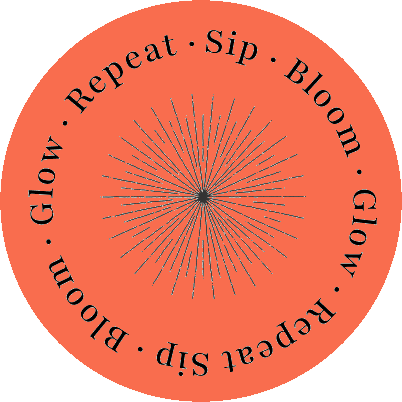
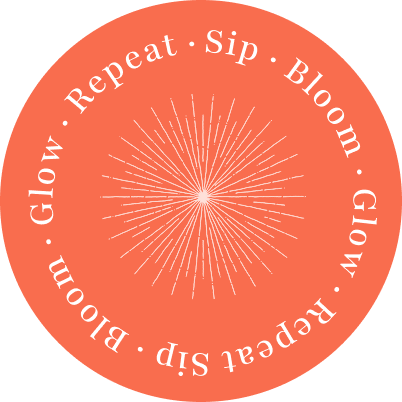
Add Prénom/Nom fields, whiten the macaron's ink, rewrite the prize copy
Three related teaser changes:

- Signup form: added Prénom and Nom fields (side by side above email, both
  required) since a first/last name is needed to know who to invite
  personally. Rewrote the submit handler to validate and hide all three
  inputs instead of just the single one it was hardcoded to before.
- Macaron badge: the sunburst rays and ring text were still black, which
  Laurent flagged as wrong now that the fill is orange — recomposited the
  asset from the original cream+black source (extracting the ink as an
  alpha mask so anti-aliasing stays smooth) so both the rays and the text are
  white against the exact #F96D4E fill. Bumped the cache-busting suffix to
  ?v=3.
- Rewrote the form-body copy to match Laurent's new prize table (VIP
  inauguration invitations, free drinks and treatments, and the "Bloom Up
  Pass" grand prize) instead of the old "20 invitations / 50 boissons" text,
  which no longer matched the real lot structure. Kept it to the two most
  compelling anchors rather than listing all seven tiers, consistent with
  the brand voice ("phrases courtes, déclaratives").

Verified over http://localhost:8878 in a fresh tab: Prénom/Nom/email render
side-by-side-then-stacked correctly, macaron shows white ink on orange, new
copy displays, and a full form submission (all three fields filled) hides
every input and shows the confirmation message. No console errors.

diff --git a/bloom-up-teaser.html b/bloom-up-teaser.html
@@ -177,6 +177,11 @@
     }
 
     /* Input */
+    .form-row {
+      display: flex;
+      gap: 10px;
+    }
+    .form-row .form-input-wrap { flex: 1; min-width: 0; }
     .form-input-wrap { position: relative; margin-bottom: 12px; }
     .form-input {
       width: 100%;
@@ -300,7 +305,7 @@
 
     <!-- Badge circulaire -->
     <div class="brand-badge">
-      <img src="images/Macaron header.png?v=2" alt="" aria-hidden="true" loading="lazy">
+      <img src="images/Macaron header.png?v=3" alt="" aria-hidden="true" loading="lazy">
     </div>
   </div>
 
@@ -309,11 +314,36 @@
     <h1 class="form-title">Inscris-toi pour fêter l'ouverture avec nous&nbsp;!</h1>
     <p class="form-body">
       Avant même d'ouvrir nos portes, on veut fêter ça avec toi.
-      <strong>20 invitations</strong> à la soirée de lancement ou <strong>50 boissons</strong> à gagner.
-      Une seule chose à faire — laisser ton adresse email.
+      <strong>Invitations VIP</strong> pour l'inauguration, boissons et soins à gagner —
+      et même un <strong>Bloom Up Pass</strong> pour les plus chanceux.
+      Une seule chose à faire — laisser tes coordonnées.
     </p>
 
     <form id="teaser-form" novalidate>
+      <div class="form-row">
+        <div class="form-input-wrap">
+          <input
+            class="form-input"
+            type="text"
+            name="prenom"
+            placeholder="Prénom"
+            autocomplete="given-name"
+            required
+            aria-label="Prénom"
+          >
+        </div>
+        <div class="form-input-wrap">
+          <input
+            class="form-input"
+            type="text"
+            name="nom"
+            placeholder="Nom"
+            autocomplete="family-name"
+            required
+            aria-label="Nom"
+          >
+        </div>
+      </div>
       <div class="form-input-wrap">
         <input
           class="form-input"
@@ -349,15 +379,17 @@
 (function () {
   var form = document.getElementById('teaser-form');
   var confirm = form.querySelector('.form-confirm');
-  var input = form.querySelector('.form-input');
+  var inputs = Array.prototype.slice.call(form.querySelectorAll('.form-input'));
+  var wraps = Array.prototype.slice.call(form.querySelectorAll('.form-input-wrap'));
   var btn = form.querySelector('.form-submit');
 
   form.addEventListener('submit', function (e) {
     e.preventDefault();
-    if (!input.value || !input.validity.valid) {
-      input.focus();
-      input.style.borderColor = '#c0392b';
-      setTimeout(function () { input.style.borderColor = ''; }, 1800);
+    var firstInvalid = inputs.filter(function (i) { return !i.value || !i.validity.valid; })[0];
+    if (firstInvalid) {
+      firstInvalid.focus();
+      firstInvalid.style.borderColor = '#c0392b';
+      setTimeout(function () { firstInvalid.style.borderColor = ''; }, 1800);
       return;
     }
     // Simulation soumission — remplacer par vraie intégration (Mailchimp, etc.)
@@ -365,7 +397,7 @@
     btn.disabled = true;
     setTimeout(function () {
       btn.style.display = 'none';
-      input.closest('.form-input-wrap').style.display = 'none';
+      wraps.forEach(function (w) { w.style.display = 'none'; });
       confirm.style.display = 'block';
     }, 600);
   });
